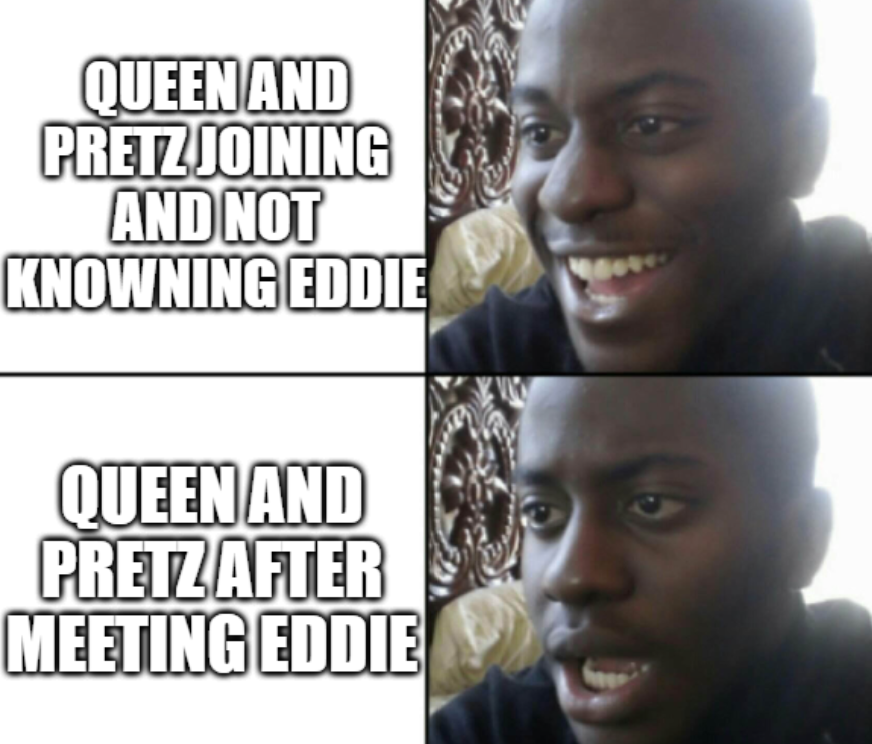
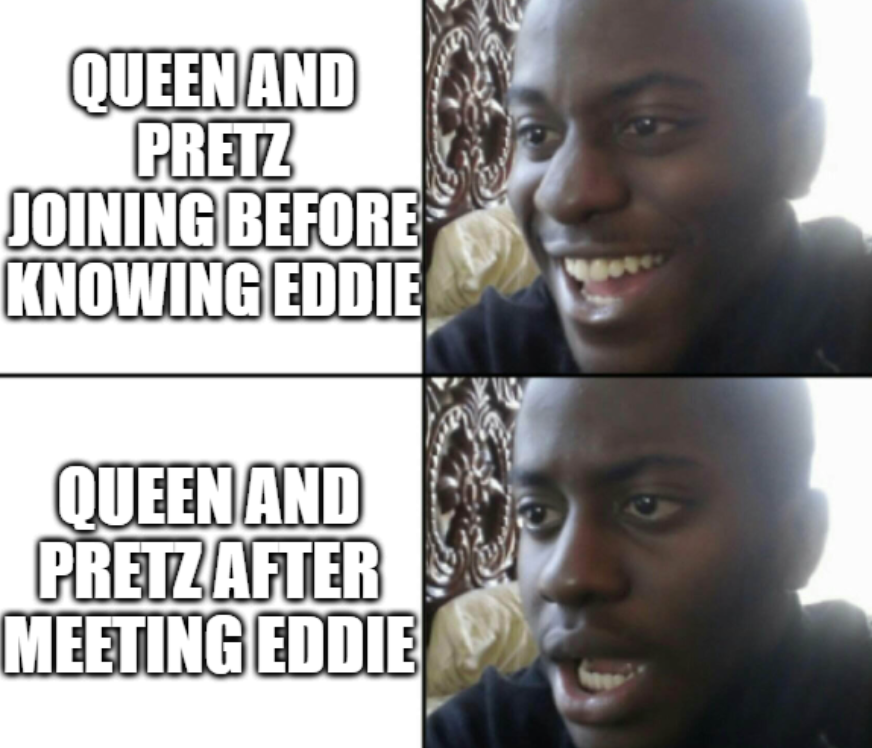
article tweaks

diff --git a/Articles/Fall_Guys_Article.py b/Articles/Fall_Guys_Article.py
@@ -28,7 +28,7 @@ def article():
 
                 But that's enough glazing for him, especially since Oscar the Grouch has never even ripped off that much trash talking, straight up disrespectful.
 
-                Now Pretz on the other hand. What a GOAT. The only member of Team Brentuar that held on each and every round. Had Eddie sneezed or lost a little bit of focus, Pretz would be leading the tournament in points. unfortunately for the team in red, that isn't what happened.
+                Now Pretz on the other hand. What a GOAT. The only member of Team Brentuar that held on each and every round. Had Eddie sneezed or lost a little bit of focus, Pretz would be leading the tournament in points. Unfortunately for the team in red, that isn't what happened.
 
                 Alright, that's enough of a recap. It's time for some memes. And no, I do not apologize for any of these. Deal with it nerds.
                 ''')
